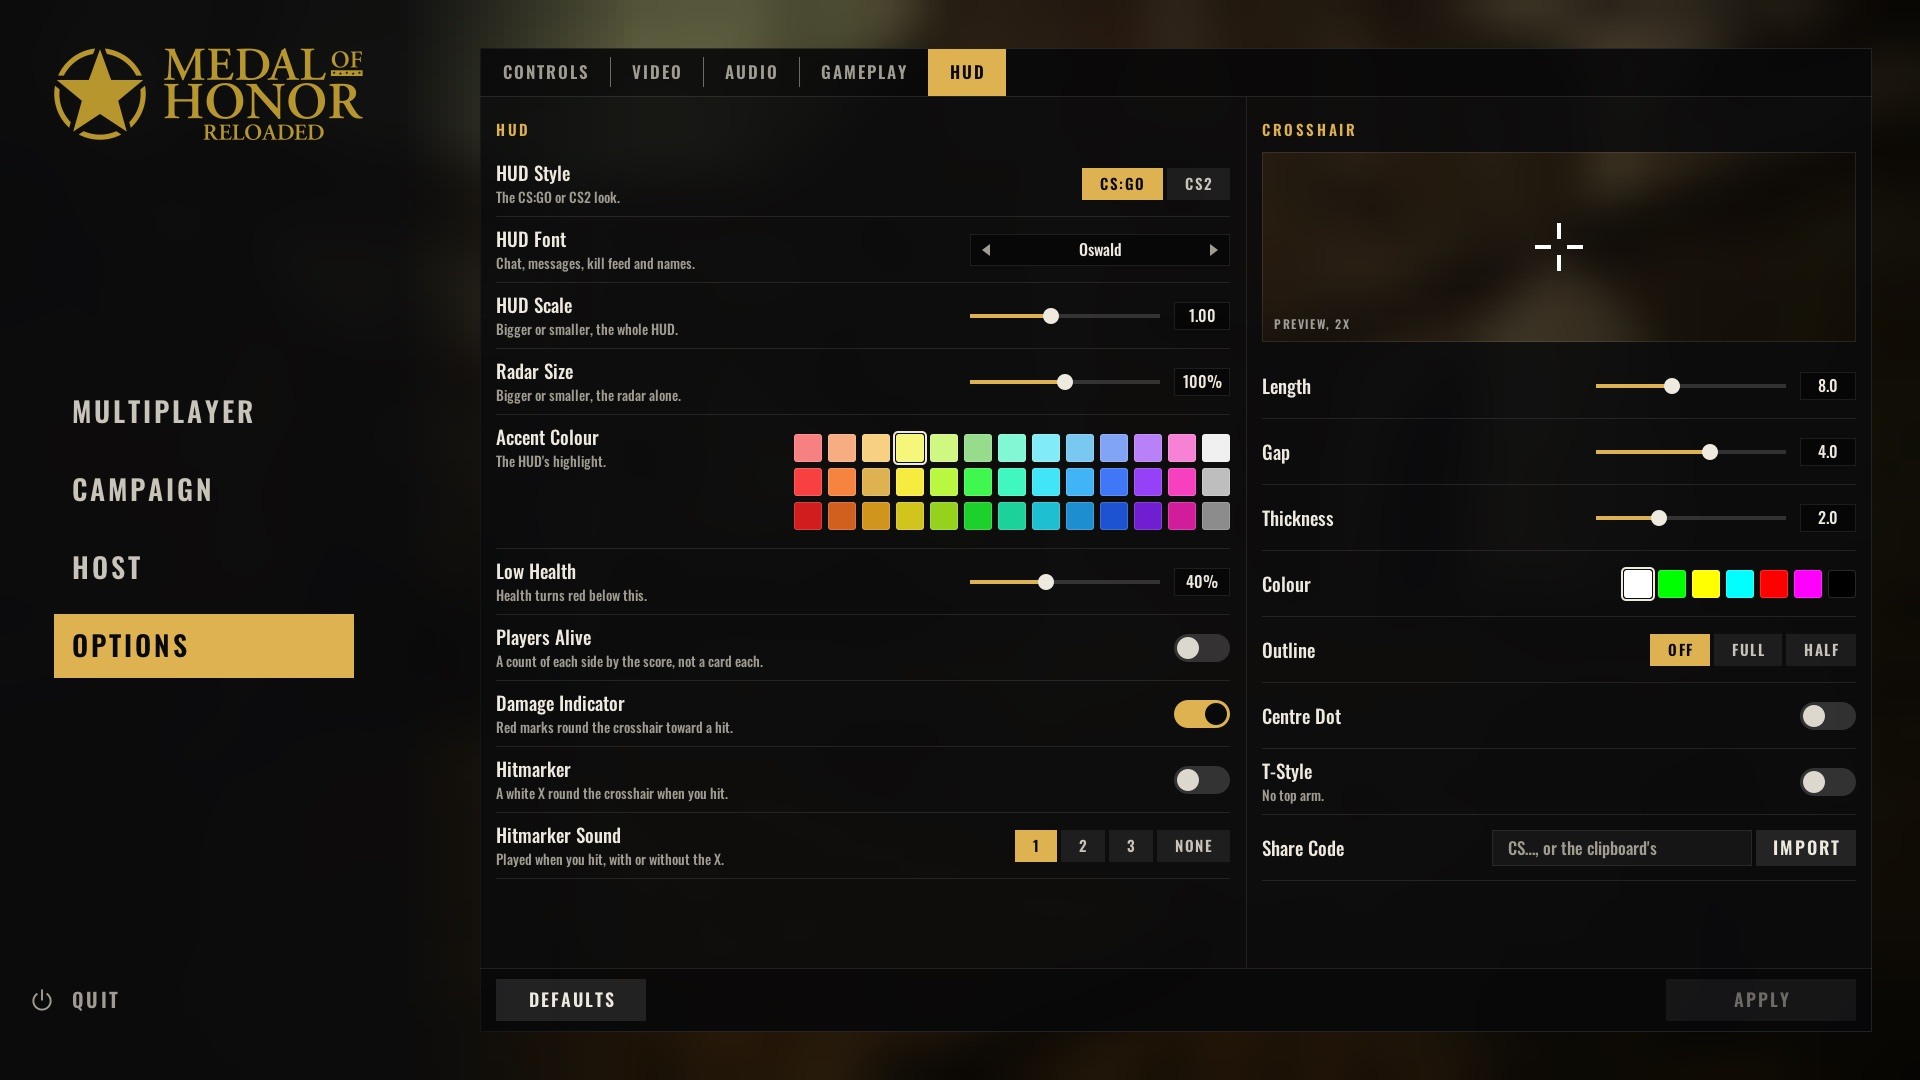
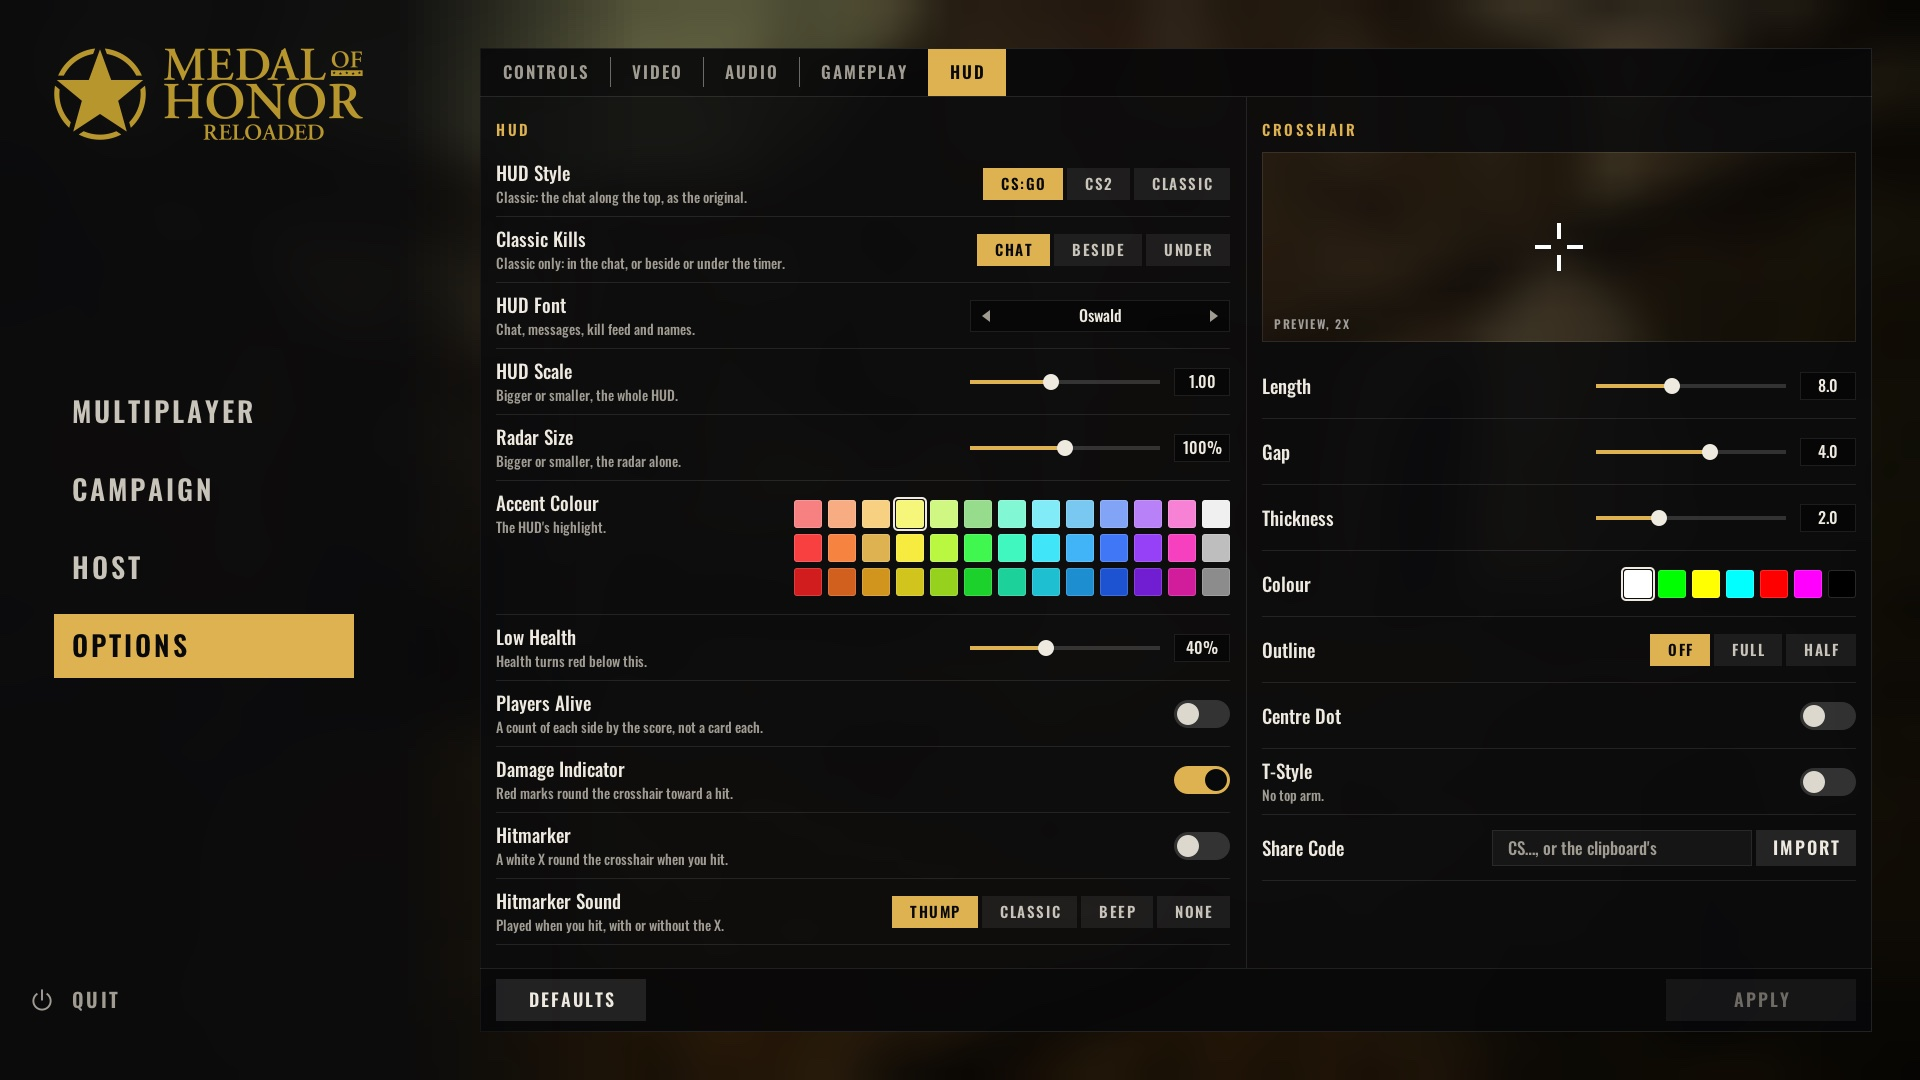
The Classic HUD style, and today's menus and HUD
A new comparison: the stock HUD against MoHAA Reloaded's Classic style
(the original layout in the new look). Reloaded's menus retaken from
today's build (Texture Quality in order, no Blood row, Flat Model
Lighting, the HUD tab's style and hit sound rows) and its match pictures
at a moment with dead players and kill-feed lines.

diff --git a/site/index.html b/site/index.html
@@ -71,14 +71,14 @@ footer a { color: var(--muted); }
     only as screenshots. OpenMoHAA is GPL-2.0.</p>
 </footer>
 <script>
-const V = "3"; // bumped when pictures change, so browsers fetch them again
+const V = "4"; // bumped when pictures change, so browsers fetch them again
 const PAIRS = [
   { id: "main", short: "Main menu", title: "Main menu", before: "stockmenu_main.jpg", after: "rlmenu_main.jpg",
     text: "The stock main menu is a room: you hover over objects to find the pages. Reloaded opens straight on the server list, with the pages down the left and your name and soldier on the right." },
   { id: "servers", short: "Server browser", title: "Server browser", before: "stockmenu2_servers.jpg", after: "rlmenu_main.jpg",
     text: "Stock: Multiplayer, Join Internet Game, Browse Internet Servers, then a plain list. Reloaded: the same live list is the home page, with game-type filters, a search box and favourites." },
   { id: "options", short: "Options", title: "Options", before: "stockmenu_options.jpg", after: "rlmenu_hud.jpg",
-    text: "Stock: a desk of radios, each one a separate page. Reloaded: one page with five tabs (Controls, Video, Audio, Gameplay, HUD). The HUD tab is new: HUD style, font, size, colour, crosshair and hitmarker, with a live crosshair preview." },
+    text: "Stock: a desk of radios, each one a separate page. Reloaded: one page with five tabs (Controls, Video, Audio, Gameplay, HUD). The HUD tab is new: HUD style (CS:GO, CS2 or Classic), font, size, colour, crosshair and hit sound, with a live crosshair preview." },
   { id: "controls", short: "Controls", title: "Controls", before: "stockmenu_controls.jpg", after: "rlmenu_controls.jpg",
     text: "Every key on one screen, grouped by what it does, with mouse sensitivity at the top." },
   { id: "video", short: "Video", title: "Video", before: "stockmenu2_video.jpg", after: "rlmenu_video.jpg",
@@ -95,6 +95,8 @@ const PAIRS = [
     text: "Health and ammo in the bottom corners, the weapons you carry on the right, a radar with your teammates, and at the top the round's time left, the score and a card for every player, greyed out once they're dead. The kill feed is at the top right. The same spot on the map in both." },
   { id: "hudcs2", short: "HUD (CS2)", title: "HUD, CS2 style", before: "obj_stock_hud.jpg", after: "obj_rl_hudcs2.jpg",
     text: "The other HUD style: health and ammo in one strip along the bottom middle, with your team's badge." },
+  { id: "hudclassic", short: "HUD (Classic)", title: "HUD, Classic style", before: "obj_stock_hud.jpg", after: "obj_rl_hudclassic.jpg",
+    text: "The third style keeps the original game's layout in the new look: the chat and kill messages along the top beside the radar, where the stock HUD writes them beside its compass, and the round's time and score at the top right, with no player cards." },
   { id: "scores", short: "Scoreboard", title: "Scoreboard", before: "obj_stock_scores.jpg", after: "obj_rl_scores.jpg",
     text: "Both teams and every player's kills. Reloaded's puts each team's score and how many are still alive up front, shows the time left, greys out the dead and highlights your own row." },
   { id: "esc", short: "Esc menu", title: "In-game menu (Esc)", before: "obj_stock_esc.jpg", after: "obj_rl_esc.jpg",
